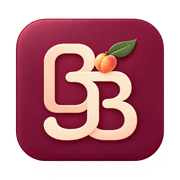
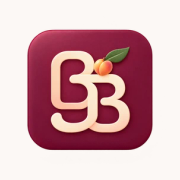
Completar entrada, iconos de teléfono y puesta en marcha visual

diff --git a/src/features/layout/HomeDashboard.jsx b/src/features/layout/HomeDashboard.jsx
@@ -1,7 +1,8 @@
+import InstallApp from './InstallApp';
 import React from 'react';
 import {AppIcon} from './Brand';
 import RecipeCover from './RecipeCover';
 export default function HomeDashboard({db,businessName,onNavigate,onRecipe,format,recipeInfo=[],onBook}){
  const gross=db.sales.reduce((sum,sale)=>sum+Math.max(0,Number(sale.gross)||0),0);
- return <div className="home-dashboard"><p className="home-eyebrow">TU ESPACIO CREATIVO</p><section className="home-hero visual-home-hero"><div className="home-hero-copy"><p className="home-welcome">{businessName||'Tu negocio'}</p><h2>Tu día,<br/>más dulce.</h2><p>Tus recetas, tus costos y tus ideas, en un mismo lugar.</p><button onClick={()=>onNavigate('Ventas')}>Registrar venta <AppIcon name="ArrowRight"/></button><button className="ghost" onClick={()=>onNavigate('Nueva receta')}>Crear receta</button></div><RecipeCover recipe={{name:'Vainilla'}} hero/></section><div className="home-overview">{[['Recetas guardadas',db.recipes.length],['Ingredientes',db.ingredients.length],['Ventas registradas',format(gross)]].map(([label,value])=><div key={label}><small>{label}</small><strong>{value}</strong></div>)}</div><h3>A un toque</h3><div className="home-actions">{[['Ingredientes','Mis ingredientes','Precios y proveedores'],['Costos de productos','Costear un producto','Incluye mano de obra y gastos'],['Cotizador','Cotizar un encargo','Calcula antes de vender'],['Herramientas','Convertir medidas','Peso, líquidos y temperatura']].map(([tab,title,description])=><button className="home-action" key={tab} onClick={()=>onNavigate(tab)}><span className="home-action-icon"><AppIcon name={tab}/></span><strong>{title}</strong><small>{description}</small></button>)}</div><div className="home-section-heading"><h3>Mis recetarios</h3><button className="ghost" onClick={()=>onNavigate('Recetas')}>Ver recetarios <AppIcon name="ArrowRight"/></button></div><div className="book-gallery home-book-gallery">{db.books.length?db.books.slice(0,4).map(book=><article className="book-card" key={book.id}><RecipeCover recipe={db.recipes.find(r=>r.bookId===book.id)||{name:book.usage==='delivery'?'Tres leches':book.name}}/><div><h3>{book.name}</h3><p>{db.recipes.filter(r=>r.bookId===book.id).length} recetas guardadas</p><button type="button" className="secondary" onClick={()=>onBook?onBook(book):onNavigate('Recetas')}>Abrir recetario {book.name}</button></div></article>):<section className="home-empty"><h3>Tu primera receta empieza con un recetario</h3><p>Crea un recetario para organizar tus recetas.</p><button className="secondary" onClick={()=>onNavigate('Recetas')}>Crear un recetario</button><button className="ghost" onClick={()=>onNavigate('Ingredientes')}>Registrar ingredientes</button></section>}</div><div className="home-inventory-links"><button className="ghost" onClick={()=>onNavigate('Mi nevera')}>Mi nevera <AppIcon name="ArrowRight"/></button><button className="ghost" onClick={()=>onNavigate('Materiales')}>Materiales <span>{db.materials.length}</span></button><button className="ghost" onClick={()=>onNavigate('Recetas')}>Recetarios <span>{db.books.length}</span></button><button className="ghost" onClick={()=>onNavigate('Decoraciones')}>Decoraciones <span>{db.decorations.length}</span></button></div></div>;
+ return <div className="home-dashboard"><p className="home-eyebrow">TU ESPACIO CREATIVO</p><section className="home-hero visual-home-hero"><div className="home-hero-copy"><p className="home-welcome">{businessName||'Tu negocio'}</p><h2>Tu día,<br/>más dulce.</h2><p>Tus recetas, tus costos y tus ideas, en un mismo lugar.</p><button onClick={()=>onNavigate('Ventas')}>Registrar venta <AppIcon name="ArrowRight"/></button><button className="ghost" onClick={()=>onNavigate('Nueva receta')}>Crear receta</button></div><RecipeCover recipe={{name:'Vainilla'}} hero/></section><div className="home-overview">{[['Recetas guardadas',db.recipes.length],['Ingredientes',db.ingredients.length],['Ventas registradas',format(gross)]].map(([label,value])=><div key={label}><small>{label}</small><strong>{value}</strong></div>)}</div><section className="today-workspace"><span className="eyebrow">TU NEGOCIO EN MARCHA</span><h3>¿Qué vamos a hacer hoy?</h3><div className="today-actions">{[['Agenda y cobros','Ver mi agenda','Encargos, producción y cobros'],['Mi nevera','Ver mi nevera','Lo que tienes listo para vender'],['Compras','Revisar compras','Artículos que llegan al mínimo'],['Caja y rentabilidad','Consultar caja','Entradas, salidas y saldos']].map(([tab,title,description])=><button key={tab} type="button" className="today-action" onClick={()=>onNavigate(tab)}><AppIcon name={tab}/><strong>{title}</strong><small>{description}</small></button>)}</div></section><details className="business-start"><summary>Deja tu negocio listo para trabajar</summary><p>Completa tu perfil y saldo inicial, revisa las existencias y mínimos de tus artículos y registra lo que tienes preparado en la nevera. Los importes y cantidades los decides tú.</p><div className="actions"><button type="button" className="secondary" onClick={()=>onNavigate('Calidad y configuración')}>Configurar mi negocio</button><button type="button" className="secondary" onClick={()=>onNavigate('Inventario')}>Revisar inventario</button><button type="button" className="secondary" onClick={()=>onNavigate('Mi nevera')}>Registrar mis productos listos</button></div></details><h3>A un toque</h3><div className="home-actions">{[['Ingredientes','Mis ingredientes','Precios y proveedores'],['Costos de productos','Costear un producto','Incluye mano de obra y gastos'],['Cotizador','Cotizar un encargo','Calcula antes de vender'],['Herramientas','Convertir medidas','Peso, líquidos y temperatura']].map(([tab,title,description])=><button className="home-action" key={tab} onClick={()=>onNavigate(tab)}><span className="home-action-icon"><AppIcon name={tab}/></span><strong>{title}</strong><small>{description}</small></button>)}</div><div className="home-section-heading"><h3>Mis recetarios</h3><button className="ghost" onClick={()=>onNavigate('Recetas')}>Ver recetarios <AppIcon name="ArrowRight"/></button></div><div className="book-gallery home-book-gallery">{db.books.length?db.books.slice(0,4).map(book=><article className="book-card" key={book.id}><RecipeCover recipe={db.recipes.find(r=>r.bookId===book.id)||{name:book.usage==='delivery'?'Tres leches':book.name}}/><div><h3>{book.name}</h3><p>{db.recipes.filter(r=>r.bookId===book.id).length} recetas guardadas</p><button type="button" className="secondary" onClick={()=>onBook?onBook(book):onNavigate('Recetas')}>Abrir recetario {book.name}</button></div></article>):<section className="home-empty"><h3>Tu primera receta empieza con un recetario</h3><p>Crea un recetario para organizar tus recetas.</p><button className="secondary" onClick={()=>onNavigate('Recetas')}>Crear un recetario</button><button className="ghost" onClick={()=>onNavigate('Ingredientes')}>Registrar ingredientes</button></section>}</div><div className="home-inventory-links"><button className="ghost" onClick={()=>onNavigate('Mi nevera')}>Mi nevera <AppIcon name="ArrowRight"/></button><button className="ghost" onClick={()=>onNavigate('Materiales')}>Materiales <span>{db.materials.length}</span></button><button className="ghost" onClick={()=>onNavigate('Recetas')}>Recetarios <span>{db.books.length}</span></button><button className="ghost" onClick={()=>onNavigate('Decoraciones')}>Decoraciones <span>{db.decorations.length}</span></button></div><InstallApp/></div>;
 }

diff --git a/src/PublicHome.jsx b/src/PublicHome.jsx
@@ -1,3 +1,4 @@
+import InstallApp from './features/layout/InstallApp';
 import {AuthLayout,Brand} from './features/layout/Brand';
 import {initialAuthLinkNotice} from './domain/auth/linkStatus.mjs';
 import React,{useState} from 'react';
@@ -8,6 +9,6 @@ export default function PublicHome({onLogin}){
  const [mode,setMode]=useState('home'),[busy,setBusy]=useState(false),[error,setError]=useState(''),[submitted,setSubmitted]=useState(false);
  async function solicitar(e){e.preventDefault();if(busy)return;const data=Object.fromEntries(new FormData(e.currentTarget));setBusy(true);setError('');try{await accountAction('request',{data});setSubmitted(true);}catch(err){setError(err.message);}finally{setBusy(false)}}
  if(mode==='login')return <Login onLogin={onLogin} onBack={()=>setMode('home')}/>;
- if(mode==='request')return <div className="login-screen"><section className="request-card"><Brand/><h1>Solicitar una cuenta</h1>{submitted?<><h2>Solicitud pendiente de revisión</h2><p>La administradora revisará tu negocio. Cuando apruebe la solicitud, recibirás una invitación por correo para crear tu contraseña e ingresar.</p><button onClick={()=>setMode('home')}>Volver al inicio</button></>:<><p>Completa los datos del dueño y del negocio. La cuenta se creará únicamente después de la aprobación.</p><form onSubmit={solicitar}><fieldset className="app-content" disabled={busy}><div className="grid"><label>Nombre del dueño<input name="ownerName" autoComplete="name" maxLength={120} required/></label><label>Correo electrónico<input name="email" type="email" autoComplete="email" maxLength={254} required/></label><label>Nombre del negocio<input name="businessName" autoComplete="organization" maxLength={160} required/></label><label>Ubicación del negocio<input name="location" autoComplete="street-address" maxLength={300} required placeholder="Ciudad, sector o dirección"/></label><label>Tipo de negocio<select name="businessType"><option>Pastelería y repostería</option><option>Panadería</option><option>Postres y dulces</option><option>Comida y bebidas</option><option>Otro negocio</option></select></label><label>Teléfono o WhatsApp (opcional)<input name="phone" type="tel" autoComplete="tel" maxLength={40}/></label><label>Web o red social (opcional)<input name="website" maxLength={300} placeholder="Página o perfil del negocio"/></label></div><label>Descripción del negocio<textarea name="description" maxLength={2000} rows={4} placeholder="Qué vendes, cómo trabajas y qué necesitas organizar"/></label><p>Estos datos se enviarán a la administradora para evaluar tu solicitud. No incluyas contraseñas ni documentos personales.</p>{error&&<p role="alert" className="form-error">{error}</p>}<div className="actions"><button>{busy?'Enviando…':'Enviar solicitud'}</button><button type="button" className="secondary" onClick={()=>setMode('home')}>Volver al inicio</button></div></fieldset></form></>}</section></div>;
- return <AuthLayout><section className="welcome-card"><p className="eyebrow">GESTIÓN PARA TU NEGOCIO</p><h1>Tu negocio empieza contigo.</h1><p>Organiza tus ingredientes, proveedores, recetarios y costos en un solo lugar.</p><div>{initialAuthLinkNotice&&<p role="alert" className="warning">{initialAuthLinkNotice}</p>}</div><div className="actions"><button onClick={()=>setMode('login')}>Iniciar sesión</button><button className="secondary" onClick={()=>{setMode('request');setSubmitted(false);setError('')}}>Solicitar cuenta</button></div><small>Las cuentas nuevas requieren autorización de la administradora. Cada cuenta tiene su espacio privado.</small></section></AuthLayout>;
+ if(mode==='request')return <AuthLayout><section className="request-card"><Brand/><h1>Solicitar una cuenta</h1>{submitted?<><h2>Solicitud pendiente de revisión</h2><p>La administradora revisará tu negocio. Cuando apruebe la solicitud, recibirás una invitación por correo para crear tu contraseña e ingresar.</p><button onClick={()=>setMode('home')}>Volver al inicio</button></>:<><p>Completa los datos del dueño y del negocio. La cuenta se creará únicamente después de la aprobación.</p><form onSubmit={solicitar}><fieldset className="app-content" disabled={busy}><div className="grid"><label>Nombre del dueño<input name="ownerName" autoComplete="name" maxLength={120} required/></label><label>Correo electrónico<input name="email" type="email" autoComplete="email" maxLength={254} required/></label><label>Nombre del negocio<input name="businessName" autoComplete="organization" maxLength={160} required/></label><label>Ubicación del negocio<input name="location" autoComplete="street-address" maxLength={300} required placeholder="Ciudad, sector o dirección"/></label><label>Tipo de negocio<select name="businessType"><option>Pastelería y repostería</option><option>Panadería</option><option>Postres y dulces</option><option>Comida y bebidas</option><option>Otro negocio</option></select></label><label>Teléfono o WhatsApp (opcional)<input name="phone" type="tel" autoComplete="tel" maxLength={40}/></label><label>Web o red social (opcional)<input name="website" maxLength={300} placeholder="Página o perfil del negocio"/></label></div><label>Descripción del negocio<textarea name="description" maxLength={2000} rows={4} placeholder="Qué vendes, cómo trabajas y qué necesitas organizar"/></label><p>Estos datos se enviarán a la administradora para evaluar tu solicitud. No incluyas contraseñas ni documentos personales.</p>{error&&<p role="alert" className="form-error">{error}</p>}<div className="actions"><button>{busy?'Enviando…':'Enviar solicitud'}</button><button type="button" className="secondary" onClick={()=>setMode('home')}>Volver al inicio</button></div></fieldset></form></>}</section></AuthLayout>;
+ return <AuthLayout><section className="welcome-card"><p className="eyebrow">GESTIÓN PARA TU NEGOCIO</p><h1 className="welcome-name">Bum Bum <span>Costos</span></h1><p className="welcome-subtitle">Tu negocio empieza contigo.</p><p>Organiza tus ingredientes, proveedores, recetarios y costos en un solo lugar.</p><div>{initialAuthLinkNotice&&<p role="alert" className="warning">{initialAuthLinkNotice}</p>}</div><div className="actions"><button onClick={()=>setMode('login')}>Iniciar sesión</button><button className="secondary" onClick={()=>{setMode('request');setSubmitted(false);setError('')}}>Solicitar cuenta</button></div><small>Las cuentas nuevas requieren autorización de la administradora. Cada cuenta tiene su espacio privado.</small><InstallApp/></section></AuthLayout>;
 }

diff --git a/src/AccountAccess.jsx b/src/AccountAccess.jsx
@@ -1,3 +1,5 @@
+import {AuthLayout} from './features/layout/Brand';
+import AppLoading from './features/layout/AppLoading';
 import React,{useEffect,useState} from 'react';
 import {supabase} from './supabase';
 import {accountAction} from './accountService';
@@ -6,9 +8,10 @@ export function AccountGate({session,children}){
  const [state,setState]=useState(null),[error,setError]=useState(''),[attempt,setAttempt]=useState(0),[password,setPassword]=useState(''),[repeat,setRepeat]=useState(''),[busy,setBusy]=useState(false);
  useEffect(()=>{let active=true;setState(null);setError('');Promise.all([supabase.from('business_profiles').select('*').eq('id',session.user.id).maybeSingle(),supabase.from('business_admins').select('user_id').eq('user_id',session.user.id).maybeSingle()]).then(([p,a])=>{if(p.error)throw p.error;if(a.error)throw a.error;if(active)setState({profile:p.data,isAdmin:!!a.data});}).catch(()=>{if(active)setError('No se pudo comprobar la autorización de tu cuenta.');});return()=>{active=false}},[session.user.id,attempt]);
  async function establecer(e){e.preventDefault();if(password.length<12||password!==repeat){setError('Usa al menos 12 caracteres y comprueba que ambas contraseñas coincidan.');return;}setBusy(true);setError('');try{const {error}=await supabase.auth.updateUser({password});if(error)throw error;const result=await supabase.from('business_profiles').update({password_required:false}).eq('id',session.user.id).select().single();if(result.error)throw result.error;setState(actual=>({...actual,profile:result.data}));setPassword('');setRepeat('');}catch{setError('No se pudo completar la configuración. Intenta de nuevo.');}finally{setBusy(false)}}
- if(!state)return <div className="login-screen"><section className="login-card"><p>{error||'Comprobando autorización…'}</p>{error&&<button onClick={()=>setAttempt(n=>n+1)}>Reintentar</button>}<button className="secondary" onClick={()=>supabase.auth.signOut()}>Cerrar sesión</button></section></div>;
- if(state.profile?.status!=='approved')return <div className="login-screen"><section className="login-card"><h1>Cuenta pendiente de autorización</h1><p>La administradora debe aprobar tu acceso antes de que puedas usar el sistema.</p><button onClick={()=>setAttempt(n=>n+1)}>Comprobar autorización</button><button className="secondary" onClick={()=>supabase.auth.signOut()}>Cerrar sesión</button></section></div>;
- if(state.profile.password_required)return <div className="login-screen"><form className="login-card" onSubmit={establecer}><h1>Bienvenido a Bum Bum Costos</h1><p>Tu cuenta está aprobada. Establece una contraseña para {state.profile.business_name||'tu negocio'}.</p><label>Nueva contraseña<input type="password" autoComplete="new-password" minLength={12} required value={password} onChange={e=>setPassword(e.target.value)}/></label><label>Repetir contraseña<input type="password" autoComplete="new-password" minLength={12} required value={repeat} onChange={e=>setRepeat(e.target.value)}/></label>{error&&<p role="alert" className="form-error">{error}</p>}<button disabled={busy}>{busy?'Guardando…':'Guardar contraseña e ingresar'}</button></form></div>;
+ if(!state&&!error)return <AppLoading message="Comprobando tu espacio privado…"/>;
+ if(!state)return <AuthLayout><section className="login-card"><p>{error||'Comprobando autorización…'}</p>{error&&<button onClick={()=>setAttempt(n=>n+1)}>Reintentar</button>}<button className="secondary" onClick={()=>supabase.auth.signOut()}>Cerrar sesión</button></section></AuthLayout>;
+ if(state.profile?.status!=='approved')return <AuthLayout><section className="login-card"><h1>Cuenta pendiente de autorización</h1><p>La administradora debe aprobar tu acceso antes de que puedas usar el sistema.</p><button onClick={()=>setAttempt(n=>n+1)}>Comprobar autorización</button><button className="secondary" onClick={()=>supabase.auth.signOut()}>Cerrar sesión</button></section></AuthLayout>;
+ if(state.profile.password_required)return <AuthLayout><form className="login-card" onSubmit={establecer}><h1>Bienvenido a Bum Bum Costos</h1><p>Tu cuenta está aprobada. Establece una contraseña para {state.profile.business_name||'tu negocio'}.</p><label>Nueva contraseña<input type="password" autoComplete="new-password" minLength={12} required value={password} onChange={e=>setPassword(e.target.value)}/></label><label>Repetir contraseña<input type="password" autoComplete="new-password" minLength={12} required value={repeat} onChange={e=>setRepeat(e.target.value)}/></label>{error&&<p role="alert" className="form-error">{error}</p>}<button disabled={busy}>{busy?'Guardando…':'Guardar contraseña e ingresar'}</button></form></AuthLayout>;
  return children(state);
 }
 

diff --git a/src/features/layout/renovacion.css b/src/features/layout/renovacion.css
@@ -9,3 +9,8 @@
 .home-actions{grid-template-columns:repeat(2,minmax(0,1fr))}.home-book-gallery{margin-top:12px}.home-book-gallery .book-card>div{padding:17px}.home-book-gallery .book-card h3{font-size:23px}@media(max-width:760px){.home-actions{grid-template-columns:1fr}.home-book-gallery{grid-template-columns:1fr}}
 
 .app-nav .nav-group{display:block;color:#f1cdd8;font-size:10px;letter-spacing:.07em;text-transform:uppercase;padding:18px 12px 5px;line-height:1.4}
+
+/* Entrada, instalación y tareas diarias. */
+.app-launch{min-height:100dvh;display:grid;place-items:center;padding:24px;background:radial-gradient(ellipse at top,#f5ddd7,transparent 60%),var(--cream);text-align:center}.app-launch section{max-width:480px;width:100%;padding:36px 24px}.app-launch h1,.welcome-name{font-family:Manrope,system-ui,sans-serif!important;font-size:clamp(38px,7vw,62px);font-weight:800;letter-spacing:-.065em;line-height:1.08;color:var(--wine);margin:14px 0 22px}.app-launch h1 span,.welcome-name span{display:block;color:#b25368}.app-launch img{display:block;margin:18px auto}.launch-progress{height:4px;max-width:150px;background:linear-gradient(90deg,#e1a7b7 0 40%,#f6dfe7 40%);border-radius:6px;margin:22px auto}.welcome-subtitle{font-size:22px!important;font-weight:700;color:var(--wine)}.auth-story h2{font-family:Manrope,system-ui,sans-serif;font-weight:750;letter-spacing:-.05em}.install-app{margin-top:28px;padding:20px;border:1px solid var(--line);border-radius:18px;background:#fffaf6}.install-app h3{font-family:Manrope,system-ui,sans-serif;font-size:19px;margin:6px 0}.install-app p{font-size:13px;line-height:1.7}.install-app summary,.business-start summary{font-weight:700;color:var(--wine);cursor:pointer;min-height:44px;padding:10px 0}.today-workspace{padding:24px;margin:24px 0}.today-workspace h3{font-family:Manrope,system-ui,sans-serif;margin:5px 0 18px;font-size:25px;letter-spacing:-.04em}.today-actions{display:grid;grid-template-columns:repeat(4,minmax(0,1fr));gap:12px}.today-action{display:flex;flex-direction:column;align-items:flex-start;text-align:left;padding:18px 14px;background:#f8e9ed;color:var(--wine);border-radius:16px;gap:10px}.today-action:nth-child(2){background:#edf2e8;color:#496044}.today-action:nth-child(3){background:#fce9d9;color:#874c29}.today-action:nth-child(4){background:#eee8f2;color:#6b4e7c}.today-action small{font-size:11px;font-weight:500;line-height:1.5}.business-start{padding:10px 20px;background:#fff7f0;border:1px solid var(--line);border-radius:18px}.business-start .actions{display:flex;gap:10px;flex-wrap:wrap}.business-start p{font-size:14px}@media(max-width:900px){.today-actions{grid-template-columns:repeat(2,minmax(0,1fr))}}@media(max-width:480px){.today-workspace{padding:18px}.today-action{padding:16px 12px}.welcome-name{font-size:44px}.install-app{padding:16px}.business-start .actions button{width:100%}.auth-story .app-brand{justify-content:center}.auth-story>div:nth-child(2){display:none}.auth-pastry{height:100px}.auth-pastry>img{height:100px}}
+.auth-content .welcome-name{font-size:clamp(42px,5vw,62px);line-height:1.08;font-weight:800}
+.auth-content .request-card{background:transparent;border:0;box-shadow:none;padding:0;max-width:none}

diff --git a/src/features/layout/InstallApp.jsx b/src/features/layout/InstallApp.jsx
@@ -1,0 +1,7 @@
+import React,{useEffect,useState} from 'react';
+export default function InstallApp(){
+ const [offer,setOffer]=useState(null),[installed,setInstalled]=useState(false),[notice,setNotice]=useState('');
+ useEffect(()=>{const mode=window.matchMedia('(display-mode: standalone)');const sync=()=>setInstalled(mode.matches||window.navigator.standalone===true);sync();const available=e=>{e.preventDefault();setOffer(e)},done=()=>{setOffer(null);setInstalled(true)};window.addEventListener('beforeinstallprompt',available);window.addEventListener('appinstalled',done);mode.addEventListener?.('change',sync);return()=>{window.removeEventListener('beforeinstallprompt',available);window.removeEventListener('appinstalled',done);mode.removeEventListener?.('change',sync)}},[]);
+ async function install(){try{await offer.prompt();const choice=await offer.userChoice;setOffer(null);setNotice(choice.outcome==='accepted'?'Sigue los pasos de tu teléfono para terminar la instalación.':'Puedes instalarla después desde el menú del navegador.')}catch{setNotice('Abre las instrucciones para añadirla a la pantalla de inicio.')}}
+ return <section className="install-app"><div><span className="eyebrow">SIEMPRE A MANO</span><h3>{installed?'Ya estás usando la aplicación':'Bum Bum Costos en tu teléfono'}</h3><p>Abre tu negocio desde su propio icono con melocotón.</p></div>{offer&&!installed&&<button type="button" onClick={install}>Instalar aplicación</button>}<details><summary>{installed?'Consultar instalación e icono':'Cómo instalar en mi celular'}</summary><p><b>Android · Chrome:</b> abre el enlace oficial, toca ⋮ y elige Instalar aplicación o Añadir a pantalla de inicio.</p><p><b>iPhone · Safari:</b> toca Compartir y Añadir a pantalla de inicio. Si aparece, activa Abrir como app y pulsa Añadir.</p><p>Si ya tienes un acceso con el icono anterior, añade el nuevo desde el enlace oficial. Verifica que abre tu cuenta antes de retirar el acceso antiguo. Tus datos guardados siguen en tu cuenta; no borres los datos del navegador porque podrías perder borradores sin guardar.</p><p>Necesitas conexión para consultar y guardar tus datos. Instalar no crea otra cuenta ni copia los datos de otras personas.</p></details>{notice&&<p role="status">{notice}</p>}</section>;
+}

diff --git a/src/features/layout/Brand.jsx b/src/features/layout/Brand.jsx
@@ -3,5 +3,5 @@ import {Wallet,FileChartColumn,ClipboardPen,Refrigerator,ClipboardList,ShoppingB
 const icons={'Clientes y proveedores':Users,'Agenda y cobros':ClipboardList,'Movimientos de inventario':Boxes,'Caja y rentabilidad':Wallet,'Calidad y configuración':UserRoundCheck,'Nueva receta':Plus,'Costos de productos':Calculator,Finanzas:Wallet,'Reportes de ventas':FileChartColumn,Pedidos:ClipboardPen,Inventario:Boxes,Compras:ShoppingBasket,'Mi nevera':Refrigerator,Producción:ClipboardList,Inicio:House,Recetas:NotebookPen,Ingredientes:Wheat,Materiales:Package,Cotizador:Calculator,Ventas:ChartNoAxesCombined,Herramientas:Scale,Decoraciones:Flower2,Respaldo:Download,Solicitudes:UserRoundCheck,'Personas con acceso':Users,Menu,LogOut,Plus,ArrowRight,Cookie};
 export function AppIcon({name,...props}){const Icon=icons[name]||NotebookPen;return <Icon size={20} aria-hidden="true" strokeWidth={1.8} {...props}/>;}
 export function Brand(){return <div className="app-brand" aria-label="Bum Bum Costos"><img className="app-brand-icon" src="/brand/bb-peach.webp" width="56" height="56" alt=""/><span className="app-brand-name"><span>Bum Bum</span><small>COSTOS</small></span></div>;}
-export function AuthLayout({children}){return <div className="auth-screen"><div className="auth-layout"><aside className="auth-story"><Brand/><div><span className="eyebrow">TU ESPACIO PARA CREAR</span><h2>Un poquito de orden.<br/>Más espacio para crear.</h2><p>Tus recetas, ingredientes y costos, reunidos en tu propio espacio.</p></div><div className="auth-pastry"><img src="/visual/vanilla.webp" alt=""/><small>Imagen de referencia</small></div></aside><div className="auth-content">{children}</div></div></div>;}
+export function AuthLayout({children}){return <div className="auth-screen"><div className="auth-layout"><aside className="auth-story"><Brand/><div><span className="eyebrow">TU ESPACIO PARA CREAR</span><h2>Hecho para crear.<br/>Listo para crecer.</h2><p>Tus recetas, ingredientes y costos, reunidos en tu propio espacio.</p></div><div className="auth-pastry"><img src="/visual/vanilla.webp" alt=""/><small>Imagen de referencia</small></div></aside><div className="auth-content">{children}</div></div></div>;}
 

diff --git a/index.html b/index.html
@@ -1,1 +1,1 @@
-<!doctype html><html lang="es"><head><meta charset="UTF-8"/><meta name="viewport" content="width=device-width,initial-scale=1.0"/><meta name="theme-color" content="#8a3450"/><link rel="manifest" href="/manifest.webmanifest"/><link rel="icon" type="image/png" href="/icon-192.png?v=bb-peach"/><link rel="apple-touch-icon" href="/apple-touch-icon.png?v=bb-peach"/><title>Bum Bum Costos</title></head><body><div id="root"></div><script type="module" src="/src/main.jsx"></script></body></html>
+<!doctype html><html lang="es"><head><meta charset="UTF-8"/><meta name="viewport" content="width=device-width,initial-scale=1.0"/><meta name="theme-color" content="#8a3450"/><link rel="manifest" href="/manifest.webmanifest"/><link rel="icon" type="image/png" href="/icon-192-bb-peach-v2.png"/><link rel="apple-touch-icon" href="/apple-touch-bb-peach-v2.png"/><meta name="apple-mobile-web-app-capable" content="yes"/><meta name="apple-mobile-web-app-title" content="Bum Bum Costos"/><meta name="apple-mobile-web-app-status-bar-style" content="default"/><title>Bum Bum Costos</title></head><body><div id="root"></div><script type="module" src="/src/main.jsx"></script></body></html>

diff --git a/src/main.jsx b/src/main.jsx
@@ -1,3 +1,4 @@
+import AppLoading from './features/layout/AppLoading';
 import {resolveRecipes} from './features/management/operations.mjs';
 import RecipeProfessional from './features/management/RecipeProfessional';
 import ComposeRecipe from './features/management/ComposeRecipe';
@@ -178,7 +179,7 @@ function AppProtegida() {
   }, []);
 
   if (loading) {
-    return <p>Comprobando acceso a Bum Bum Costos...</p>;
+    return <AppLoading message="Abriendo tu aplicación…"/>;
   }
 
   if (!session) {

diff --git a/src/features/layout/AppLoading.jsx b/src/features/layout/AppLoading.jsx
@@ -1,0 +1,2 @@
+import React from 'react';
+export default function AppLoading({message='Preparando tu espacio…',children}){return <div className="app-launch"><section aria-label="Inicio de Bum Bum Costos"><p className="eyebrow">TU NEGOCIO, A TU MANERA</p><h1>Bum Bum <span>Costos</span></h1><img src="/brand/bb-peach.webp" width="84" height="84" alt="Monograma BB con melocotón"/><p role="status">{message}</p><div className="launch-progress" aria-hidden="true"/>{children}</section></div>}

diff --git a/docs/PENDIENTES_DISENO.md b/docs/PENDIENTES_DISENO.md
@@ -1,23 +1,9 @@
-# Renovación visual pendiente de Bum Bum Costos
+# Estado de la renovación visual
 
-Solicitada por la usuaria el 31 de octubre de 2026. Actualización del 1 de noviembre de 2026: la usuaria priorizó esta renovación antes de las próximas ampliaciones. Diseño elegido: Dulce y visual; crema, vino y rosa suave; tipografía Manrope. Implementación preparada en rama, pendiente de aprobación para publicar.
+La renovación Dulce y visual se publicó en PR24. PR26 añadió la navegación de los módulos operativos. Esta entrega completa la entrada e instalación: nombre Bum Bum Costos como protagonista, pantalla de apertura, tareas diarias, ayuda de puesta en marcha y variantes del icono BB con melocotón para Android e iPhone. Se conserva el diseño elegido, los colores crema/vino/rosa y la tipografía Manrope.
 
-## Cambios solicitados
+Se conserva el logo propio del negocio en cotizaciones. El icono de la aplicación es independiente y no reemplaza las marcas de otras cuentas. Los iconos de instalación tienen fondo opaco y la variante adaptable reserva espacio alrededor del monograma. Los archivos nuevos usan nombres versionados para facilitar su actualización; no se obliga a borrar datos del navegador.
 
-- Renovar por completo la pantalla principal y su distribución.
-- Mejorar la pantalla de inicio de sesión y entrada a la aplicación.
-- Cambiar la paleta de colores; definirla con la usuaria antes de aplicar la renovación.
-- Dar protagonismo al nombre «Bum Bum Costos» al iniciar, en lugar del logo actual.
-- Rediseñar el icono de la aplicación y preparar sus versiones para celular y acceso desde la pantalla de inicio.
-- Tipografía moderna, interfaz bonita y visual, con aspecto de aplicación actual y uso sencillo.
+La instalación se inicia con una acción del usuario. Se ofrecen instrucciones si el navegador no muestra la opción automática. No hay promesa de funcionamiento sin conexión ni de sustitución inmediata del icono en todos los teléfonos.
 
-## Propuestas para revisar en esa etapa
-
-- Inicio con accesos claros a las tareas frecuentes y un resumen útil del negocio.
-- Tarjetas e iconos consistentes, textos cortos y jerarquía visual clara.
-- Navegación cómoda en celular y botones fáciles de tocar.
-- Formularios más ligeros, estados vacíos que expliquen el siguiente paso y confirmaciones dentro de la aplicación.
-- Contraste legible, tamaños de letra cómodos y mensajes de guardado/error fáciles de reconocer.
-- Mantener las guías desplegables, el aislamiento por cuenta y todas las funciones existentes.
-
-Las propuestas deben revisarse visualmente antes de publicarse. No cambiar la marca, permisos, datos ni funcionamiento de negocio de forma incidental.
+La puesta en marcha requiere datos reales: conteos, productos disponibles, precios y mínimos. La usuaria confirmó mínimo 3 en la unidad base de cada artículo para sus registros actuales. No se inventan artículos faltantes ni lotes de nevera.

diff --git a/docs/ESTADO_PLAN.md b/docs/ESTADO_PLAN.md
@@ -24,8 +24,13 @@ La existencia de estas funciones no certifica cada dispositivo de cada usuaria. 
 
 Adaptación entre moldes, porcentajes panaderos y rendimiento medido, con borradores privados por cuenta y dispositivo. Publicadas con aprobación y verificadas en el enlace oficial.
 
-## Entrega integral en revisión
+## Entrega integral publicada en PR26
 
 Los seis bloques solicitados están implementados en esta entrega: fichas profesionales y subrecetas vinculadas; temporizadores; compras, lotes y movimientos de materias primas; directorios, calendario y órdenes de trabajo; caja, cobros y rentabilidad; controles de calidad y perfiles de negocio. Véase OPERACION_INTEGRAL.md para los flujos y límites concretos.
 
-La validación incluye pruebas automatizadas, operaciones reversibles en Supabase con cuentas ficticias, revisión de los nuevos flujos y PDF. La publicación permanente requiere aprobar conjuntamente la migración y el PR. No se marca esta entrega como publicada antes de verificar producción.
+La validación incluye pruebas automatizadas, operaciones reversibles en Supabase con cuentas ficticias, revisión de los nuevos flujos y PDF. La usuaria aprobó su publicación: la migración está aplicada, el PR26 fusionado y la aplicación oficial comprobada.
+
+
+## Cierre visual y puesta en marcha
+
+Entrada con el nombre de la aplicación, iconos de teléfono unificados y adaptables, instrucciones de instalación y accesos a tareas diarias. Se mantienen los datos privados y los borradores. Completar los artículos aún no ingresados y las cantidades de Mi nevera requiere los datos reales de la usuaria.

diff --git a/docs/GUIA_DE_USO.md b/docs/GUIA_DE_USO.md
@@ -12,10 +12,12 @@ Tu punto de partida
 4. Usa el Cotizador para encargos y registra tus ventas cuando las realices.
 5. El borrador de trabajo se conserva al cambiar de módulo o recargar, en este dispositivo y para esta cuenta. Guardar confirma el registro en la nube; cancelar o limpiar descarta el formulario correspondiente.
 6. Abre Finanzas para gastos y reportes; Pedidos para encargos; Respaldo para recuperar registros o versiones de recetas.
+7. En ¿Qué vamos a hacer hoy? abre Agenda, Mi nevera, Compras o Caja. Deja tu negocio listo para trabajar reúne perfil, saldo inicial, inventario y productos preparados. No crea existencias de ejemplo.
+8. En Bum Bum Costos en tu teléfono abre las instrucciones para Android o iPhone. Cuando el navegador lo admita aparecerá Instalar aplicación; puedes entrar con tu misma cuenta.
 
 **Ejemplo:** Puedes tener un recetario «Galletas para apps» y otro «Postres por encargo».
 
-**Consejo:** Cada cuenta tiene su propio espacio. Cierra sesión cuando termines en un equipo compartido. Los borradores no se sincronizan entre dispositivos. No guardamos contraseñas ni el archivo PDF como borrador.
+**Consejo:** Cada cuenta tiene su propio espacio. Cierra sesión cuando termines en un equipo compartido. Los borradores no se sincronizan entre dispositivos. No guardamos contraseñas ni el archivo PDF como borrador. El icono conserva el monograma BB con melocotón. Si el teléfono conserva el anterior, añade el acceso nuevo desde el enlace oficial antes de retirar el antiguo. No borres datos del navegador para actualizar el icono.
 
 ## Ingredientes
 
